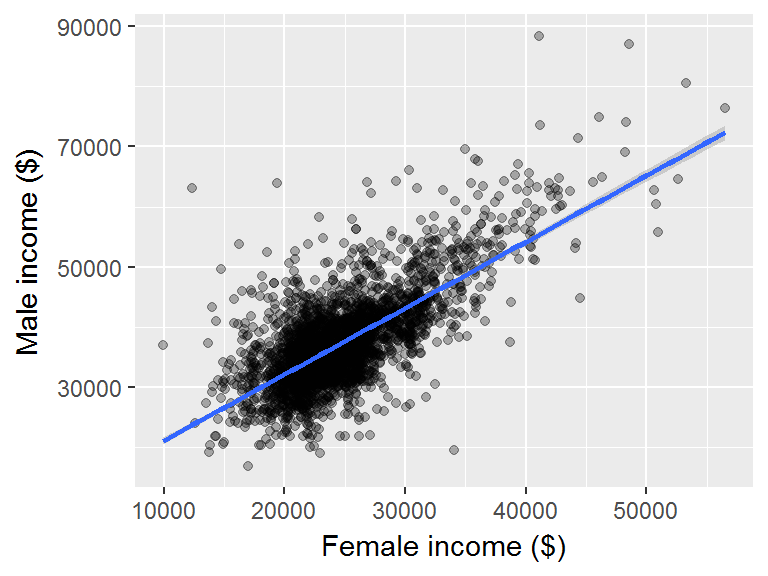
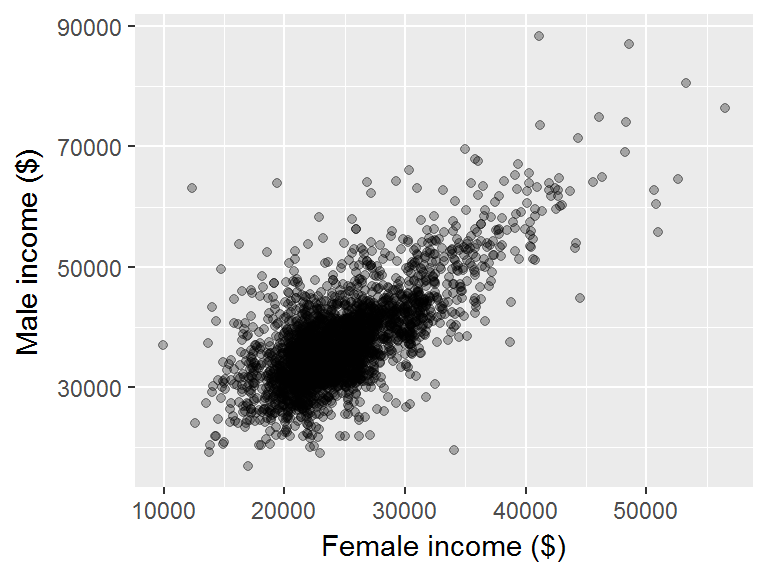
minor edits

diff --git a/Week04c.html b/Week04c.html
@@ -405,7 +405,7 @@ $(document).ready(function () {
 <li><a href="#combining-geometries">Combining geometries</a></li>
 </ul></li>
 <li><a href="#tweaking-a-ggplot2-graph">Tweaking a ggplot2 graph</a><ul>
-<li><a href="#title">Title</a></li>
+<li><a href="#plot-title">Plot title</a></li>
 <li><a href="#axes-titles">Axes titles</a></li>
 <li><a href="#axes-labels">Axes labels</a></li>
 <li><a href="#axes-limits">Axes limits</a></li>
@@ -606,8 +606,8 @@ dat2.ct &lt;-<span class="st"> </span>dat2 <span class="op">%&gt;%</span><span c
 </div>
 <div id="tweaking-a-ggplot2-graph" class="section level1">
 <h1>Tweaking a ggplot2 graph</h1>
-<div id="title" class="section level2">
-<h2>Title</h2>
+<div id="plot-title" class="section level2">
+<h2>Plot title</h2>
 <p>You can add a plot title using the <code>ggtile</code> function.</p>
 <div class="sourceCode"><pre class="sourceCode r"><code class="sourceCode r"><span class="kw">ggplot</span>(dat2, <span class="kw">aes</span>(State)) <span class="op">+</span><span class="st"> </span><span class="kw">geom_bar</span>() <span class="op">+</span><span class="kw">ggtitle</span>(<span class="st">&quot;Number of counties by state&quot;</span>)</code></pre></div>
 <p><img src="Week04c_files/figure-html/unnamed-chunk-27-1.png" width="768" /></p>
@@ -616,7 +616,6 @@ dat2.ct &lt;-<span class="st"> </span>dat2 <span class="op">%&gt;%</span><span c
 <h2>Axes titles</h2>
 <p>Axes titles can be explicitly defined using the <code>xlab()</code> and <code>ylab()</code> functions.</p>
 <div class="sourceCode"><pre class="sourceCode r"><code class="sourceCode r"><span class="kw">ggplot</span>(dat2, <span class="kw">aes</span>(<span class="dt">x=</span>B20004013, <span class="dt">y=</span>B20004007)) <span class="op">+</span><span class="st"> </span><span class="kw">geom_point</span>(<span class="dt">alpha=</span><span class="fl">0.3</span>) <span class="op">+</span>
-<span class="st">               </span><span class="kw">geom_smooth</span>(<span class="dt">method =</span> <span class="st">&quot;lm&quot;</span>) <span class="op">+</span>
 <span class="st">               </span><span class="kw">xlab</span>(<span class="st">&quot;Female income ($)&quot;</span>) <span class="op">+</span><span class="st"> </span><span class="kw">ylab</span>(<span class="st">&quot;Male income ($)&quot;</span>)</code></pre></div>
 <p><img src="Week04c_files/figure-html/unnamed-chunk-28-1.png" width="384" /></p>
 <p>To remove axis labels, simply pass <code>NULL</code> to the functions as in <code>xlab(NULL)</code> and <code>ylab(NULL)</code>.</p>
